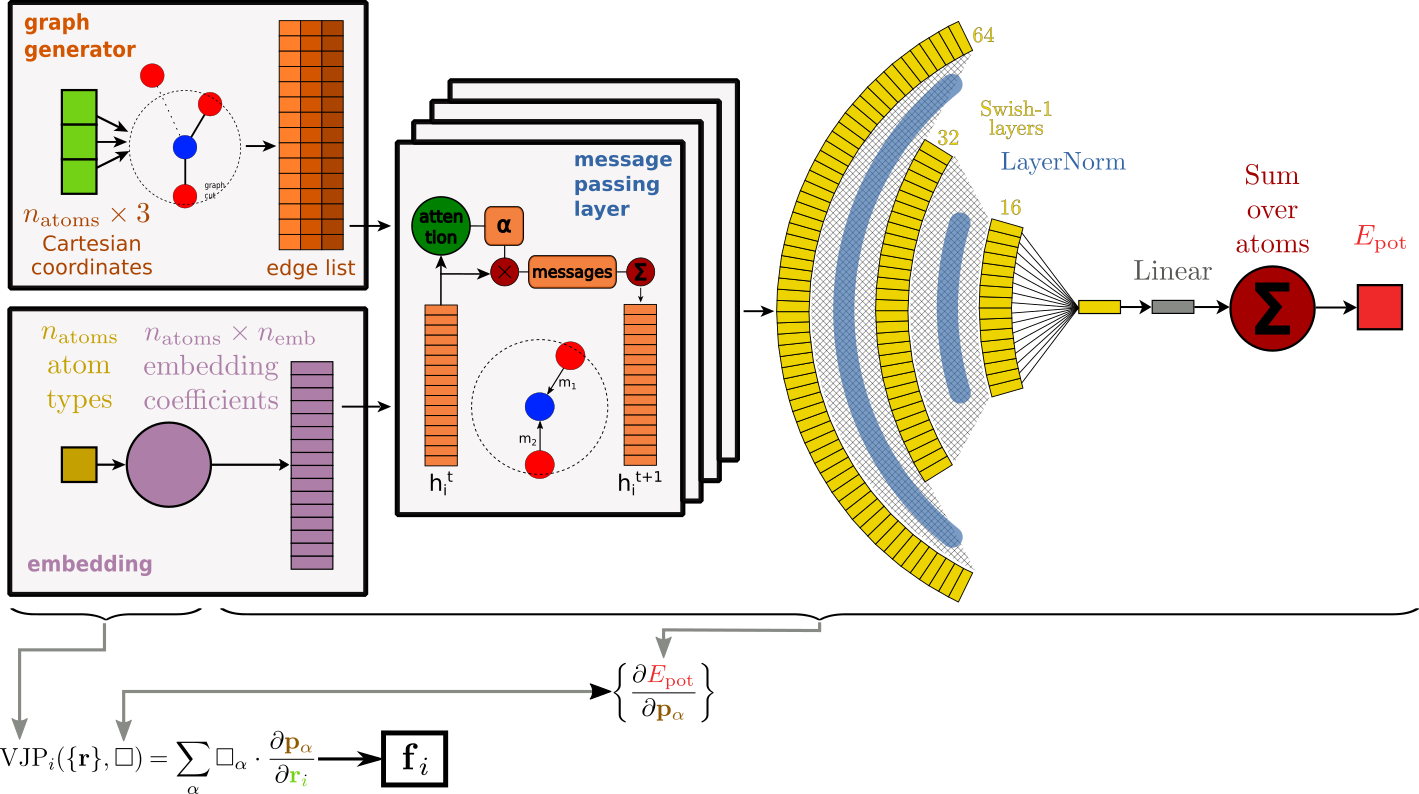
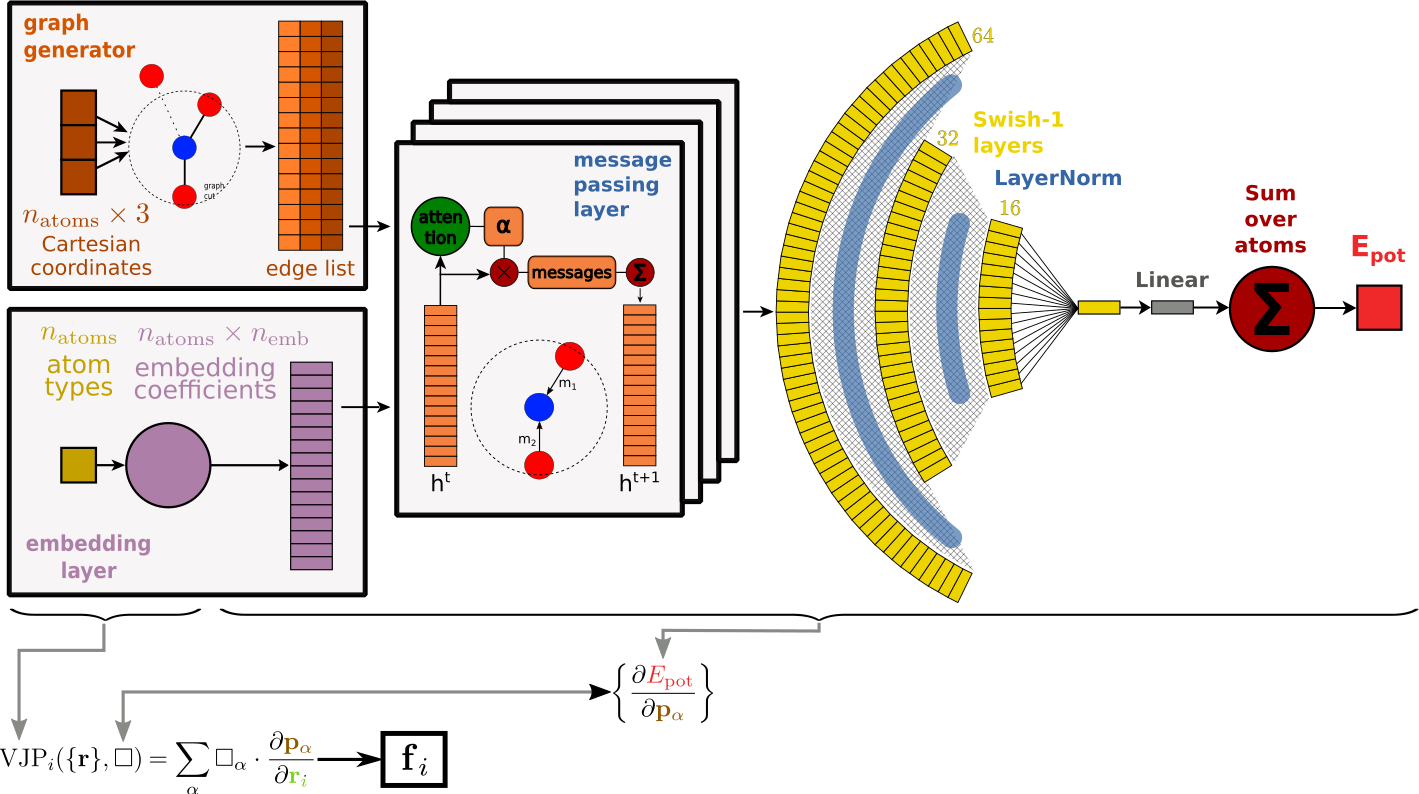
add background to visualizations for dark mode, latex readme fixes

diff --git a/README.md b/README.md
@@ -18,7 +18,7 @@ The JAT architecture takes as input the 3N Cartesian coordinates and N types (at
 - and finally takes a sum over all atomic contributions to obtain the potential energy. 
 
 <p align="center">
-<img src="figs/jatOnlyModel.png" align="center"/>
+<img src="figs/vis_ArchitectureOnly.png" align="center"/>
 </p>
 
 
@@ -135,7 +135,8 @@ src > jat_model.py > JatLayer.attention()
 <p align="center">
 <img src="figs/vis_attention.png" width="400" align="center"/>
 </p>
-Visualization of the attention mechanism of the JAT architecture. For every $\mathrm{edge}_{ij}$ in the edge list, the features of $\mathrm{sender}_{i}$, $\mathrm{receiver}_{j}$ and $d_{ij}$ are *lifted* and with a projection parametrized by $a^T$ transformed into $e_{ij}$. These weights are normalized over all received messages with a segment softmax function to obtain $\alpha_{ij}$. }
+Visualization of the attention mechanism of the JAT architecture. For every $edge_{ij}$ in the edge list, the features of $sender_{i}$, $receiver_{j}$ and $d_{ij}$ are lifted and with a projection parametrized by $a^T$ transformed into $e_{ij}$. These weights are normalized over all received messages with a segment softmax function to obtain $\alpha_{ij}$.
+
 ___
 
 # Setup
